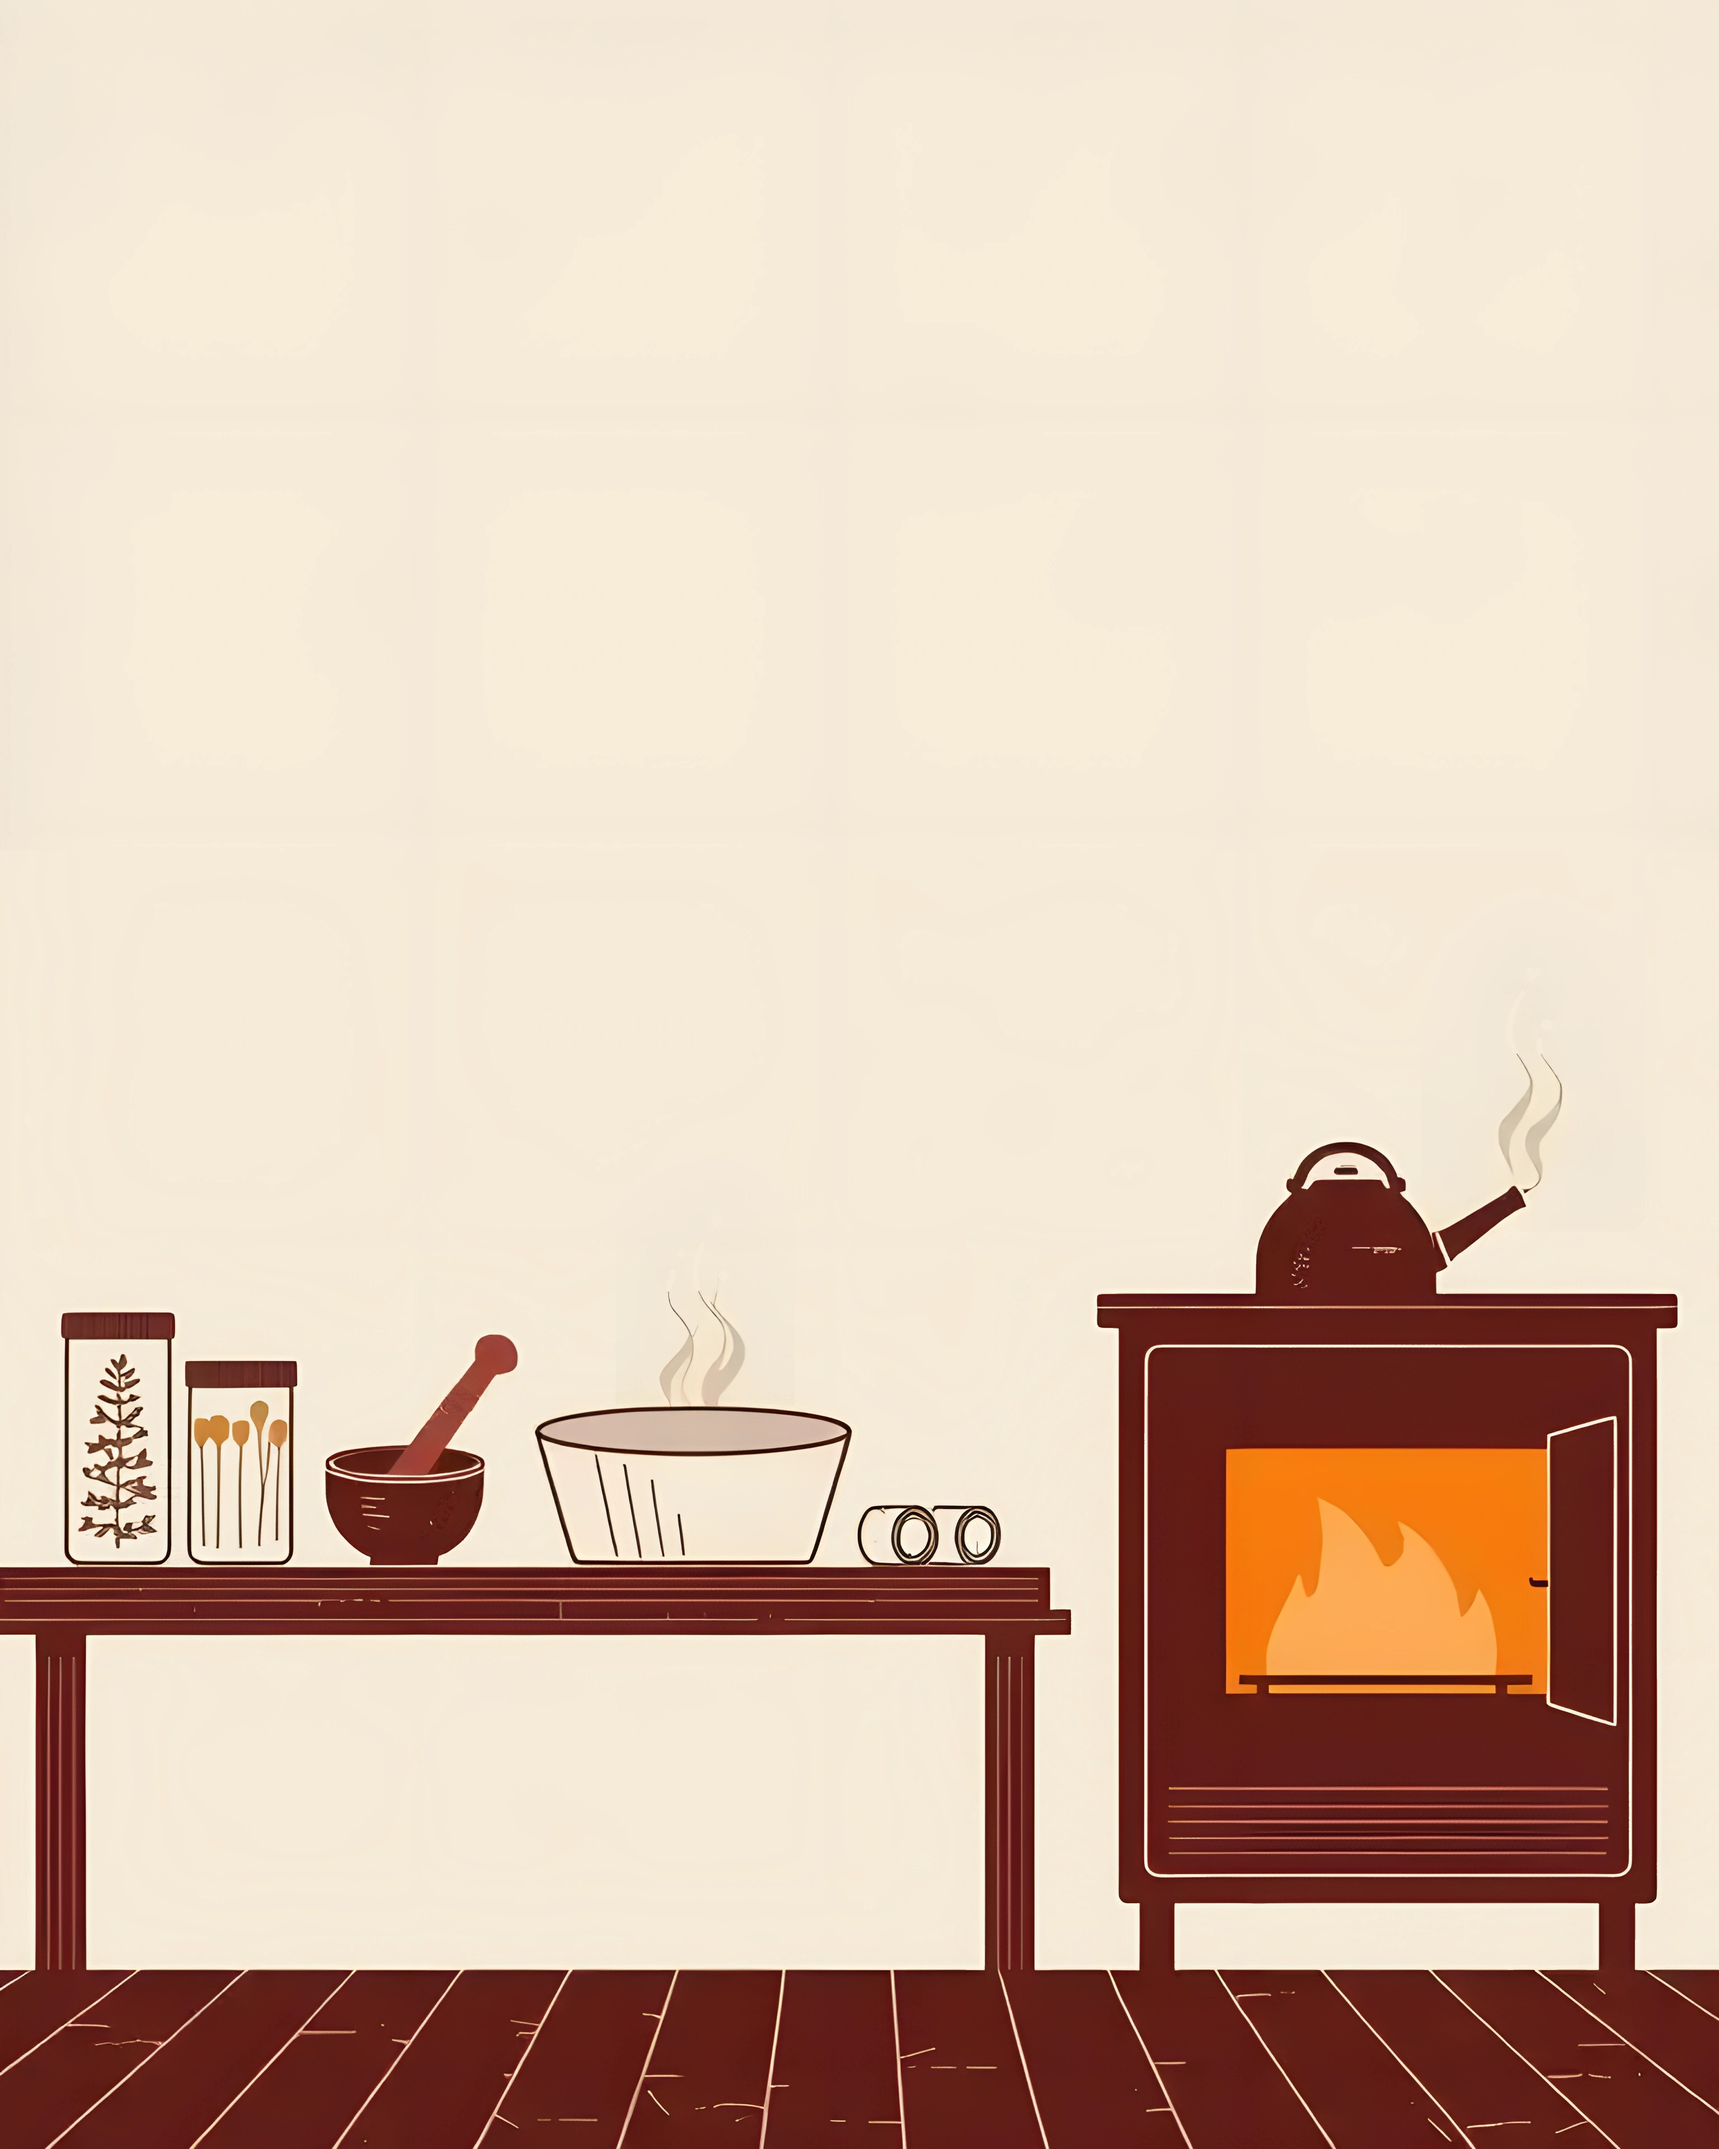
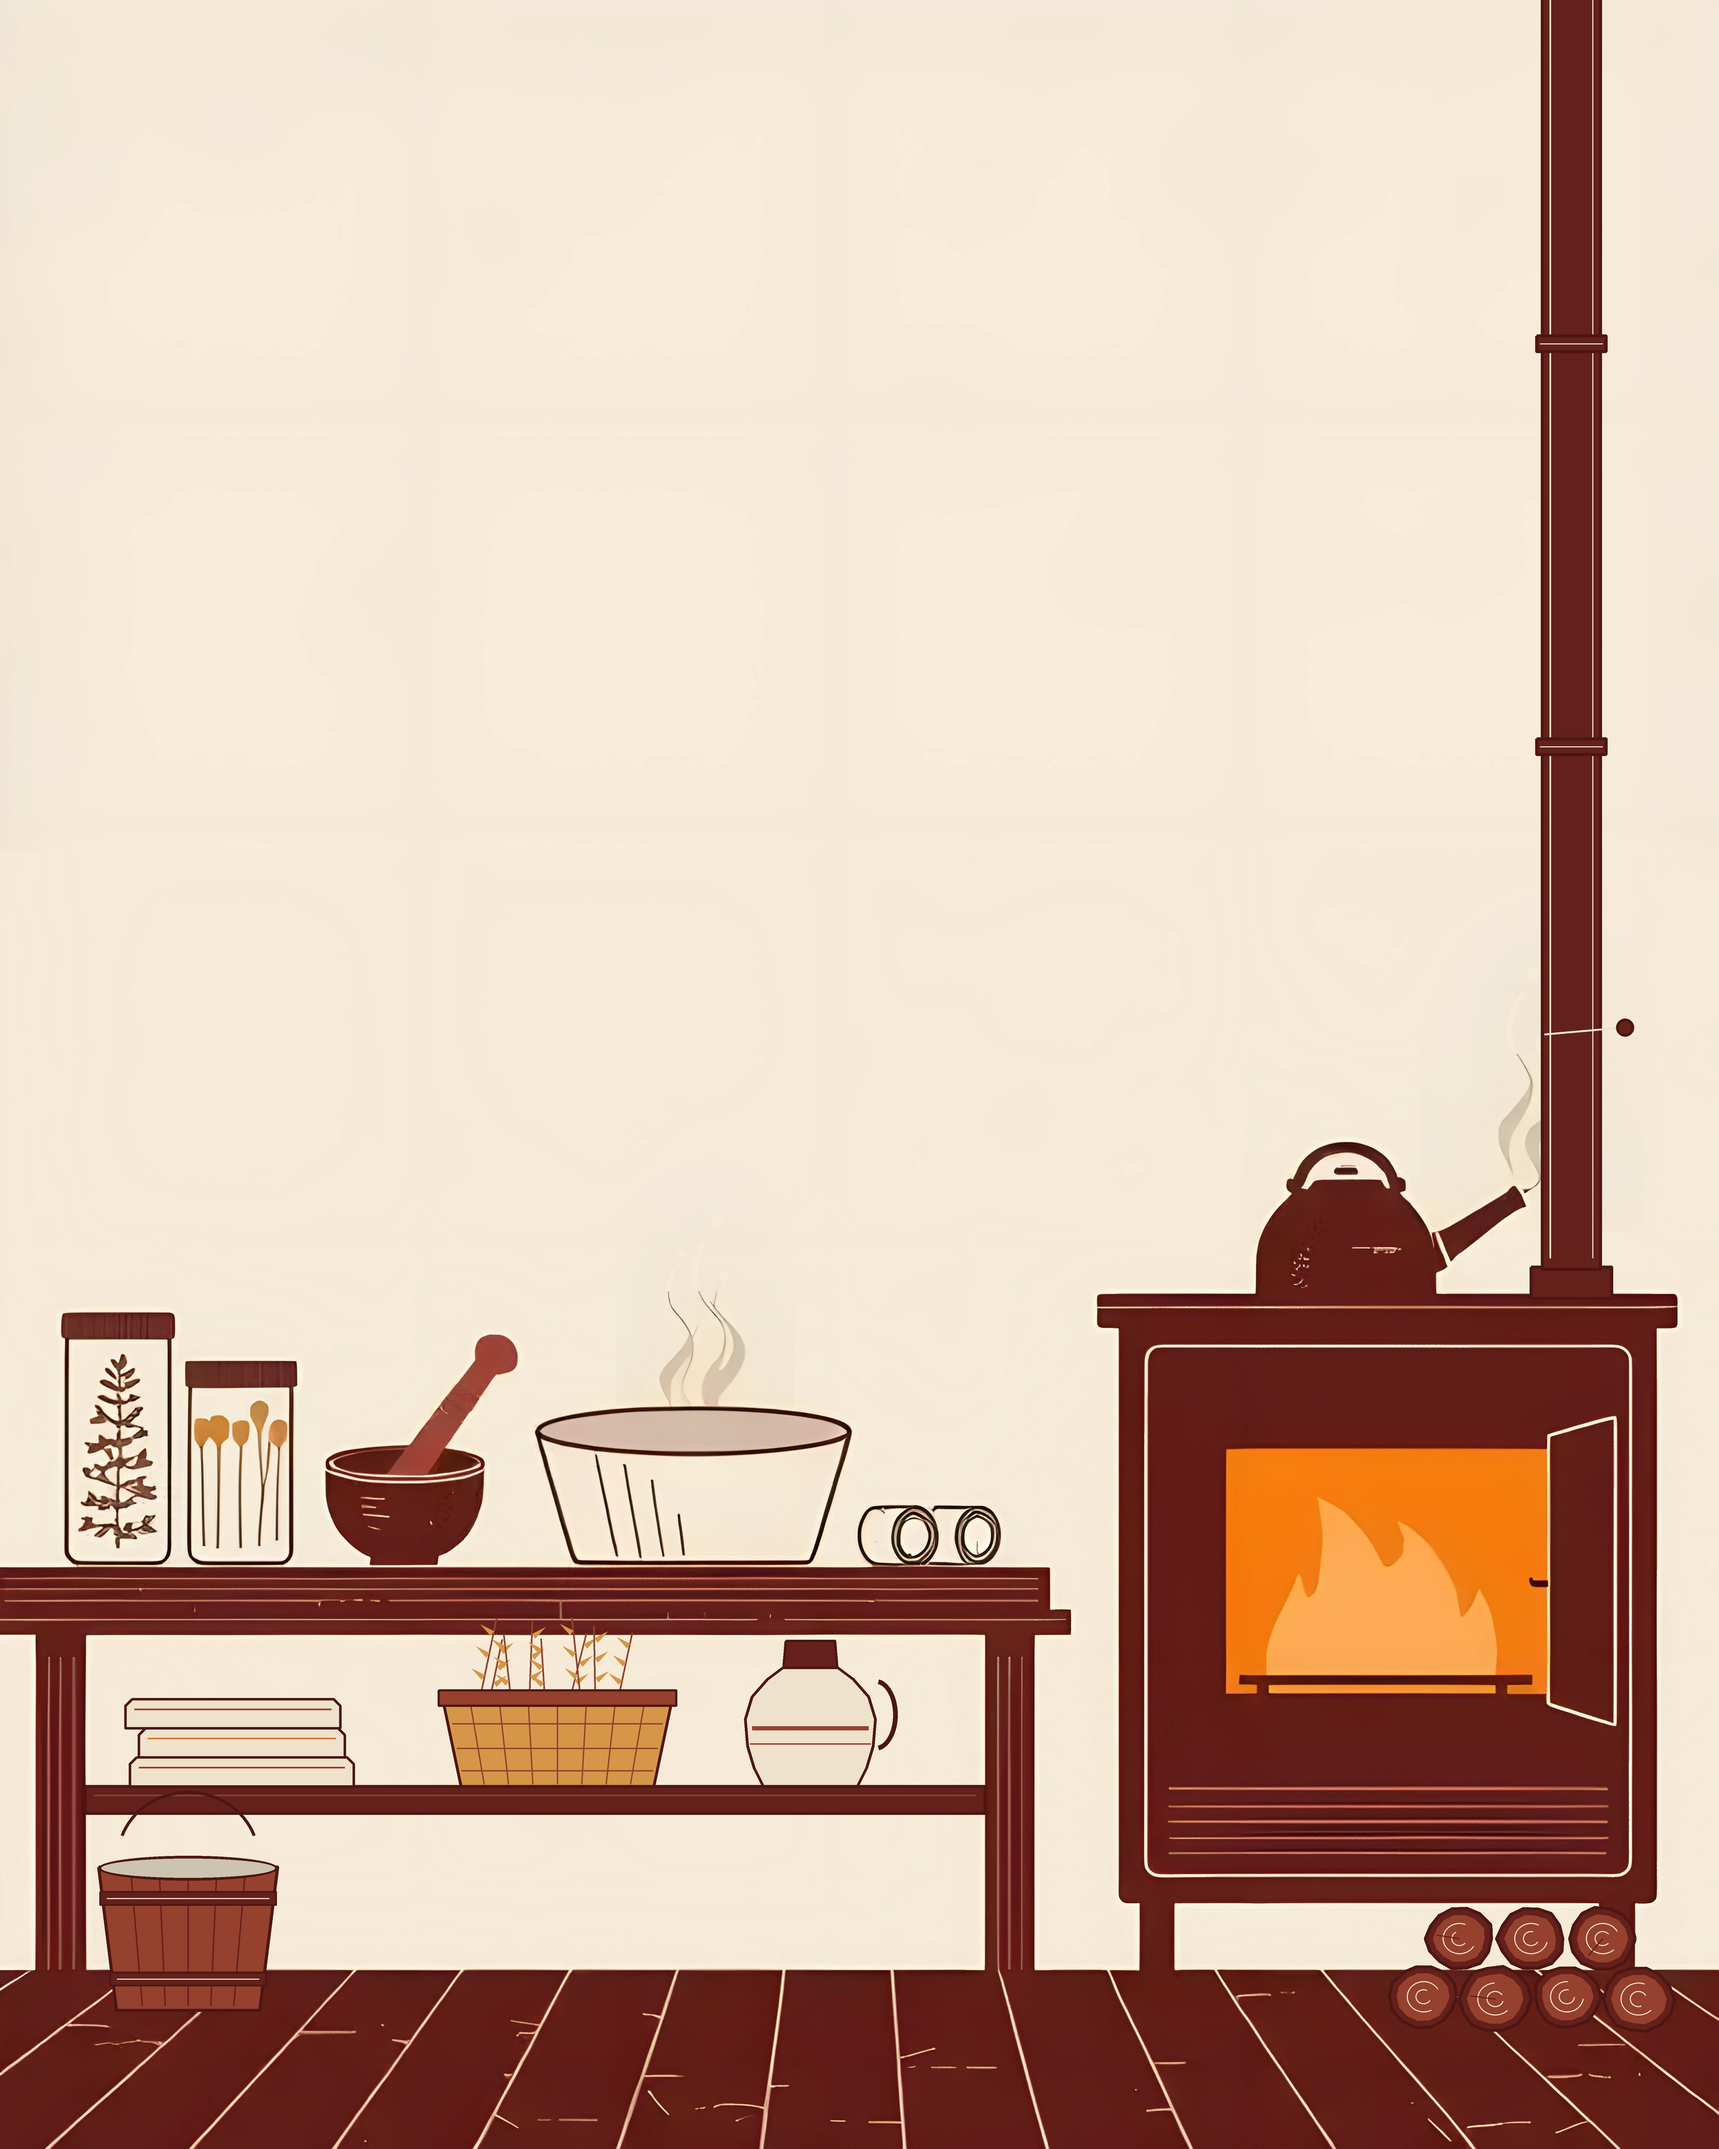
Tome 2 : éléments ajoutés (tuyau du poêle, tablette avec linge, panier et cruche, chaudière, bûches)
JP : « le tome 2, ajoute des éléments, c'est vide ».

Claude-Session: https://claude.ai/code/session_014xDY5FLxFXDJt3nYAYznSZ

Changed region(s): [[0.0312, 0.75, 0.5938, 0.9375], [0.875, 0.0, 0.9375, 0.625], [0.8125, 0.875, 0.9688, 0.9375]]

diff --git a/images/tomes/essais-ia/tome-2/ajouts_soin.py b/images/tomes/essais-ia/tome-2/ajouts_soin.py
@@ -1,0 +1,100 @@
+"""Tome 2 : des éléments ajoutés à la n° 11 retouchée (JP, 18 octobre 2026 : « le tome 2, ajoute des éléments, c'est
+vide »). Dans le style de l'image, des aplats brique cernés avec des filets clairs, et seulement là où le titre et le
+bloc des tomes ne les cachent pas : le tuyau du poêle, qui manquait (un poêle à bois sans tuyau ne tire pas), avec ses
+joints et sa clé ; une tablette sous la table avec du linge plié, un panier de plantes séchées et une cruche ; une
+chaudière de bois sur le plancher, à gauche ; des bûches fendues devant le poêle.
+    python3 ajouts_soin.py SOURCE SORTIE      (SOURCE : la sortie de retouche_soin.py)
+Les coordonnées sont celles de l'image 768 × 960 ; elles se multiplient par K (4 sur l'image agrandie)."""
+import sys, math, random
+import numpy as np
+from PIL import Image, ImageDraw
+
+src, dst = sys.argv[1], sys.argv[2]
+S = 2                                                  # dessin à double taille, puis réduit : bords nets
+im0 = Image.open(src).convert('RGB')
+K = im0.width / 768
+im = im0.resize((im0.width * S, im0.height * S), Image.LANCZOS)
+d = ImageDraw.Draw(im)
+R = random.Random(2)
+BRIQUE = (100, 32, 26); CERNE = (78, 22, 18); CLAIR = (238, 226, 204); MOYEN = (150, 64, 46)
+OCRE = (214, 150, 72); ORANGE = (240, 120, 28)
+k = lambda v: v * K * S
+P = lambda pts: [(k(x), k(y)) for x, y in pts]
+def poly(pts, fill, cerne=CERNE, w=2.2):
+    d.polygon(P(pts), fill=fill)
+    if cerne: d.line(P(pts + [pts[0]]), fill=cerne, width=max(1, int(k(w) / 1.6)), joint='curve')
+def ligne(a, b, fill=CLAIR, w=1.3):
+    d.line(P([a, b]), fill=fill, width=max(1, int(k(w) / 1.6)))
+def ellipse(x0, y0, x1, y1, fill, cerne=CERNE, w=2.0):
+    d.ellipse(P([(x0, y0), (x1, y1)]), fill=fill, outline=cerne, width=max(1, int(k(w) / 1.6)))
+
+# 1. le tuyau du poêle, du dessus du poêle jusqu'en haut de l'image
+x0, x1 = 689, 715
+poly([(x0 - 5, 566), (x1 + 5, 566), (x1 + 5, 580), (x0 - 5, 580)], BRIQUE)        # le collet
+poly([(x0, -4), (x1, -4), (x1, 567), (x0, 567)], BRIQUE)
+ligne((x0 + 3.5, 0), (x0 + 3.5, 562)); ligne((x1 - 3.5, 0), (x1 - 3.5, 562), w=0.8)
+for y in (150, 330):                                                                  # les joints des longueurs
+    poly([(x0 - 2.5, y), (x1 + 2.5, y), (x1 + 2.5, y + 7), (x0 - 2.5, y + 7)], BRIQUE)
+    ligne((x0 - 1, y + 3.5), (x1 + 1, y + 3.5), w=0.8)
+ligne((x0 + 1, 462), (x1 + 9, 459), fill=CLAIR, w=1.6)                               # la clé
+ellipse(x1 + 7, 455, x1 + 15, 463, BRIQUE)
+
+# 2. la tablette sous la table, entre les pieds
+poly([(38, 798), (440, 798), (440, 810), (38, 810)], BRIQUE)
+ligne((42, 802), (436, 802), fill=(136, 68, 60), w=1.0)
+# le linge plié : trois serviettes, chacune avec sa rayure
+for i, (xa, xb) in enumerate(((58, 158), (62, 154), (56, 152))):
+    yb = 798 - i * 13; ya = yb - 13
+    poly([(xa + 3, ya), (xb - 3, ya), (xb, ya + 3), (xb, yb), (xa, yb), (xa, ya + 3)], CLAIR, w=1.8)
+    ligne((xa + 4, ya + 4.5), (xb - 4, ya + 4.5), fill=ORANGE if i == 1 else MOYEN, w=1.4)
+# le panier de plantes séchées : les tiges et les feuilles dépassent
+for j in range(9):
+    bx = 212 + j * 8 + R.uniform(-2, 2); tx = bx + R.uniform(-9, 9); ty = 728 + R.uniform(-6, 8)
+    ligne((bx, 762), (tx, ty), fill=MOYEN, w=1.4)
+    for t in (0.35, 0.6, 0.85):
+        px, py = bx + (tx - bx) * t, 762 + (ty - 762) * t
+        s = 1 if j % 2 else -1
+        poly([(px, py), (px + s * 6, py - 3), (px + s * 1.5, py + 2)], OCRE, cerne=None)
+poly([(198, 760), (300, 760), (292, 798), (206, 798)], OCRE, w=2.0)
+for t in np.linspace(0.12, 0.88, 7):                                                  # le tressage
+    ligne((198 + 102 * t, 761), (206 + 86 * t, 797), fill=MOYEN, w=1.0)
+for y in (770, 781, 791):
+    ligne((200 + (y - 760) * 0.2, y), (298 - (y - 760) * 0.2, y), fill=MOYEN, w=1.0)
+poly([(196, 755), (302, 755), (302, 762), (196, 762)], MOYEN, w=1.6)                 # le rebord
+# la cruche de grès : un profil de demi-largeurs, du goulot au pied
+profil = [(744, 11), (750, 19), (758, 26), (768, 29), (780, 28), (790, 25), (798, 21)]
+droite = [(362 + w, y) for y, w in profil]; gauche = [(362 - w, y) for y, w in profil[::-1]]
+d.arc(P([(381, 750), (401, 782)]), -80, 80, fill=CERNE, width=max(1, int(k(3.4) / 1.6)))   # l'anse, derrière
+poly(droite + gauche, CLAIR, w=2.0)
+poly([(351, 733), (373, 733), (374, 745), (350, 745)], BRIQUE, w=1.8)                # le goulot
+ligne((336, 772), (388, 772), fill=MOYEN, w=3.0); ligne((335, 779), (389, 779), fill=MOYEN, w=1.2)
+
+# 3. la chaudière de bois sur le plancher, à gauche, devant le pied de la table
+poly([(44, 834), (124, 834), (116, 898), (52, 898)], MOYEN, w=2.2)
+for t in np.linspace(0.18, 0.82, 5):                                                  # les douves
+    ligne((44 + 80 * t, 836), (52 + 64 * t, 896), fill=BRIQUE, w=1.0)
+for y in (848, 884):                                                                  # les cercles
+    xa = 44 + (y - 834) * 8 / 64; xb = 124 - (y - 834) * 8 / 64
+    poly([(xa - 1, y - 3), (xb + 1, y - 3), (xb + 1, y + 3), (xa - 1, y + 3)], BRIQUE, w=1.4)
+    ligne((xa + 2, y), (xb - 2, y), fill=CLAIR, w=0.8)
+ellipse(44, 829, 124, 840, (205, 196, 176), w=2.0)                                    # l'eau
+d.arc(P([(52, 800), (116, 860)]), 200, 340, fill=CERNE, width=max(1, int(k(2.4) / 1.6)))    # l'anse de corde
+
+# 4. des bûches fendues empilées devant le poêle, à droite : les bouts montrent leurs cernes
+def buche(cx, cy, r):
+    pts = [(cx + r * math.cos(a) * (1 + R.uniform(-0.07, 0.04)), cy + r * 0.92 * math.sin(a) * (1 + R.uniform(-0.05, 0.04)))
+           for a in np.linspace(0, 2 * math.pi, 15)[:-1]]
+    poly(pts, BRIQUE, w=2.2)                                                          # l'écorce
+    inner = [(cx + (x - cx) * 0.78, cy + (y - cy) * 0.78) for x, y in pts]
+    poly(inner, MOYEN, cerne=None)                                                    # le bois du bout
+    for f in (0.5, 0.24):                                                             # les cernes
+        d.arc(P([(cx - r * f, cy - r * f * 0.92), (cx + r * f, cy + r * f * 0.92)]), R.uniform(0, 70), R.uniform(240, 340),
+              fill=CLAIR, width=max(1, int(k(0.9) / 1.6)))
+    if R.random() < 0.5:                                                              # une fente
+        a = R.uniform(0, 6.28); ligne((cx, cy), (cx + r * 0.7 * math.cos(a), cy + r * 0.65 * math.sin(a)), fill=BRIQUE, w=1.1)
+for cx, cy, r in ((636, 892, 15), (668, 893, 16), (700, 892, 15), (732, 893, 16), (652, 866, 15), (684, 866, 15), (716, 866, 15)):
+    buche(cx, cy, r)
+
+im = im.resize(im0.size, Image.LANCZOS)
+im.save(dst, quality=95)
+print('ok', dst)

diff --git a/images/credits.md b/images/credits.md
@@ -1111,7 +1111,7 @@ Linogravures générées par le réseau AI Horde à partir d'une image de dépar
 | Fichier | Modèle | Licence du modèle | Retouches |
 | --- | --- | --- | --- |
 | `images/tomes/titre-tome-1.jpg` | Juggernaut XL (img2img 0,75) | CreativeML Open RAIL++-M | étoiles contre les lettres retirées |
-| `images/tomes/titre-tome-2.jpg` | Flux.1-Schnell (img2img 0,66, `s3-F-flux-i66-0`) | Apache 2.0 | halo orange du mur effacé ; points au bout des vapeurs retirés ; griffonnages du mortier et du pilon, mouchetures et fausse étiquette de la bouilloire retirés (`retouche_soin.py`) |
+| `images/tomes/titre-tome-2.jpg` | Flux.1-Schnell (img2img 0,66, `s3-F-flux-i66-0`) | Apache 2.0 | halo orange du mur effacé ; points au bout des vapeurs retirés ; griffonnages du mortier et du pilon, mouchetures et fausse étiquette de la bouilloire retirés (`retouche_soin.py`) ; tuyau du poêle, tablette, linge, panier, cruche, chaudière et bûches ajoutés (`ajouts_soin.py`) |
 | `images/tomes/titre-tome-3.jpg` | Juggernaut XL (img2img 0,65) | CreativeML Open RAIL++-M | reflet du soleil regravé en tirets ; canot remonté |
 | `images/tomes/titre-tome-4.jpg` | Flux.1-Schnell (img2img 0,62 sur la version d'été de la candidate 2, `t4e-flux62-1`) | Apache 2.0 | soleil en aplat sans liseré ; reflet regravé en morceaux ; deux bêtes couchées dans l'herbe et un oiseau retirés ; poissons de tailles variées (`ete/retouche_ete.py`) |
 | `images/tomes/titre-tome-5.jpg` | Juggernaut XL (img2img 0,50 sur la version d'été de la candidate 4, `t5e-jug50-1`) | CreativeML Open RAIL++-M | rangée de fausse écriture au pied du bâtiment remplacée par des pierres (`ete/retouche_ete.py`) |

diff --git a/livre/apercus-titre-t2/rapport.md b/livre/apercus-titre-t2/rapport.md
@@ -1,7 +1,7 @@
 # Tome 2 · Le corps — rapport d'assemblage
 
-- **Produit le :** 2026-10-18 21:28, par `design/outils/assembler-tome.py 2 --chapitres 19 --hors-ligne --sortie livre/apercus-titre-t2`
-- **Fichier :** `livre/tome-2/interieur.pdf` — 20 pages, 6.8 Mo
+- **Produit le :** 2026-10-18 21:49, par `design/outils/assembler-tome.py 2 --chapitres 19 --hors-ligne --sortie livre/apercus-titre-t2`
+- **Fichier :** `livre/tome-2/interieur.pdf` — 20 pages, 6.9 Mo
 - **Ouvertures :** au recto ou au verso (--verso)
 - **Placements :** design/epreuves-livre/placements.json, design/epreuves-livre/placements-tome-2.json
 - **Exigences de Blurb :** `sources/blurb-specifications.md` (relevées le 27 septembre 2026)
@@ -28,7 +28,7 @@ Aucune page de crédits (JP, 28 septembre 2026) : copie hors du livre dans `livr
 | Nombre de pages | pair, de 20 à 440 (papier Standard) | 20 | oui |
 | Page 1 | à droite | ouverture du chapitre 00 | oui |
 | Polices incorporées | toutes | 20 police(s), 0 non incorporée(s) | oui |
-| Taille du fichier | 2 Go au plus | 6.8 Mo | oui |
+| Taille du fichier | 2 Go au plus | 6.9 Mo | oui |
 | Marques d'imprimeur | aucune | aucune | oui |
 | Couleur | CMJN ou sRVB, sans ton direct | sRVB (Edge) | oui |
 | Noir du texte | 100 % K | noir sRVB (0, 0, 0) : la conversion est faite chez Blurb | à juger sur épreuve |

diff --git a/images/tomes/essais-ia/tome-2/LISEZMOI.md b/images/tomes/essais-ia/tome-2/LISEZMOI.md
@@ -8,6 +8,12 @@ imitaient une écriture sur le mortier et le pilon, les mouchetures et la fausse
 l'aplat de l'objet. Résultat : `images/tomes/titre-tome-2.jpg`. Le fond étant clair, le titre s'imprime à l'encre
 brique (`TP_ENCRE` de l'assembleur) et un aplat papier passe sous le bloc du bas (`TP_BAS_FOND`).
 
+Puis (JP : « le tome 2, ajoute des éléments, c'est vide ») `ajouts_soin.py` dessine, dans le style de l'image et
+seulement là où le titre et le bloc des tomes ne les cachent pas : le tuyau du poêle avec ses joints et sa clé ; une
+tablette sous la table avec du linge plié, un panier de plantes séchées et une cruche de grès ; une chaudière de bois
+sur le plancher, à gauche ; des bûches empilées devant le poêle. Chaîne : `retouche_soin.py tome-2-11-x4.png` puis
+`ajouts_soin.py`.
+
 Linogravure, trois encres : rouge sang de bœuf #5C1A15, papier blanc cassé, orange #EE7219 pour la lumière et le feu.
 768 × 960, rien n'est agrandi. Aucun texte, aucun visage, aucune main, aucun animal.
 

diff --git a/livre/apercus-titre-t2/credits/tome-2-credits.md b/livre/apercus-titre-t2/credits/tome-2-credits.md
@@ -3,7 +3,7 @@
 **Ne s'imprime pas.** JP, 28 septembre 2026 : « enlève les pages crédit photo, garde les backup quelque part mais pas dans le livre ». Aucune page de crédits dans `livre/tome-2/interieur.pdf`, rien au sommaire.
 
 - **Tiré de :** `images/credits.md` et `images/photos/registre-*.md` (les registres restent la référence)
-- **Par :** `design/outils/assembler-tome.py 2`, le 2026-10-18 21:28, tome de 20 pages
+- **Par :** `design/outils/assembler-tome.py 2`, le 2026-10-18 21:49, tome de 20 pages
 - **Même contenu, lisible à l'écran :** `livre/apercus-titre-t2/credits/tome-2-credits.pdf`
 - **Page :** celle du tome où l'image s'imprime ; elle change à chaque assemblage.
 
